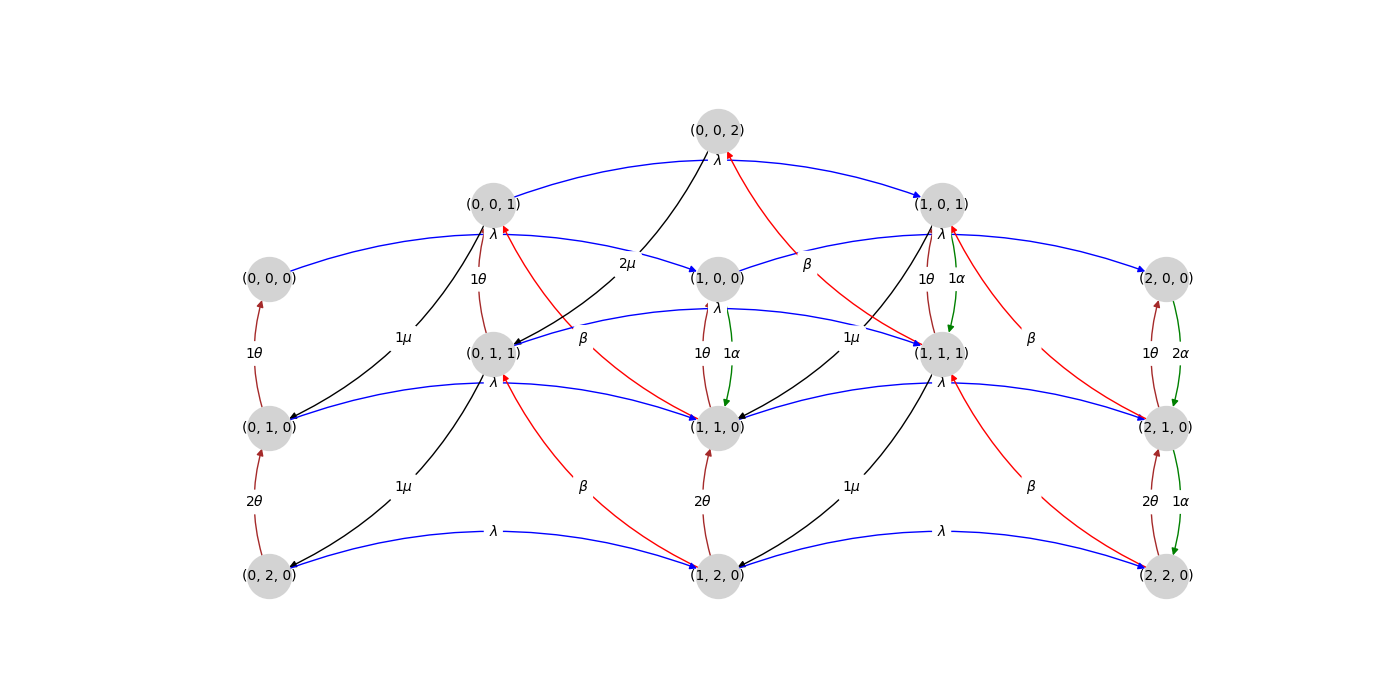
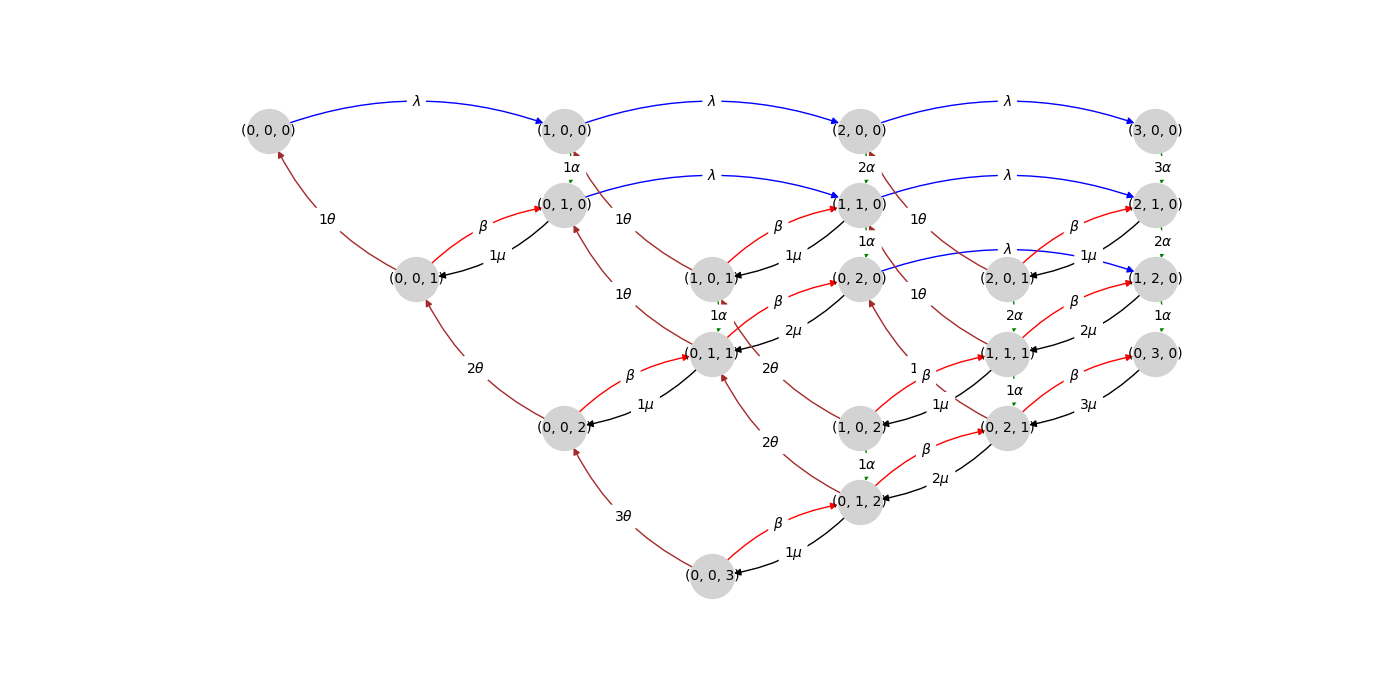
update new graph

diff --git a/Markov/model_3D.py b/Markov/model_3D.py
@@ -10,7 +10,6 @@ import networkx as nx  # For the magic
 import matplotlib.pyplot as plt  # For plotting
 import numpy as np
 from scipy import linalg
-# from .graph import draw_graph, draw_graph_new
 # from graph import draw_graph_updated
 
 
@@ -458,7 +457,7 @@ if __name__=="__main__":
         "theta": 0.3,
         # "segments_per_video": 3,
         # "preload_segments_per_video": 1,
-        "max_queue": 1, # queue
+        "max_queue": 3, # queue
         "serving_time": "exponential",
         "arrivals": "exponential",
         # "lam_factor": 1,
